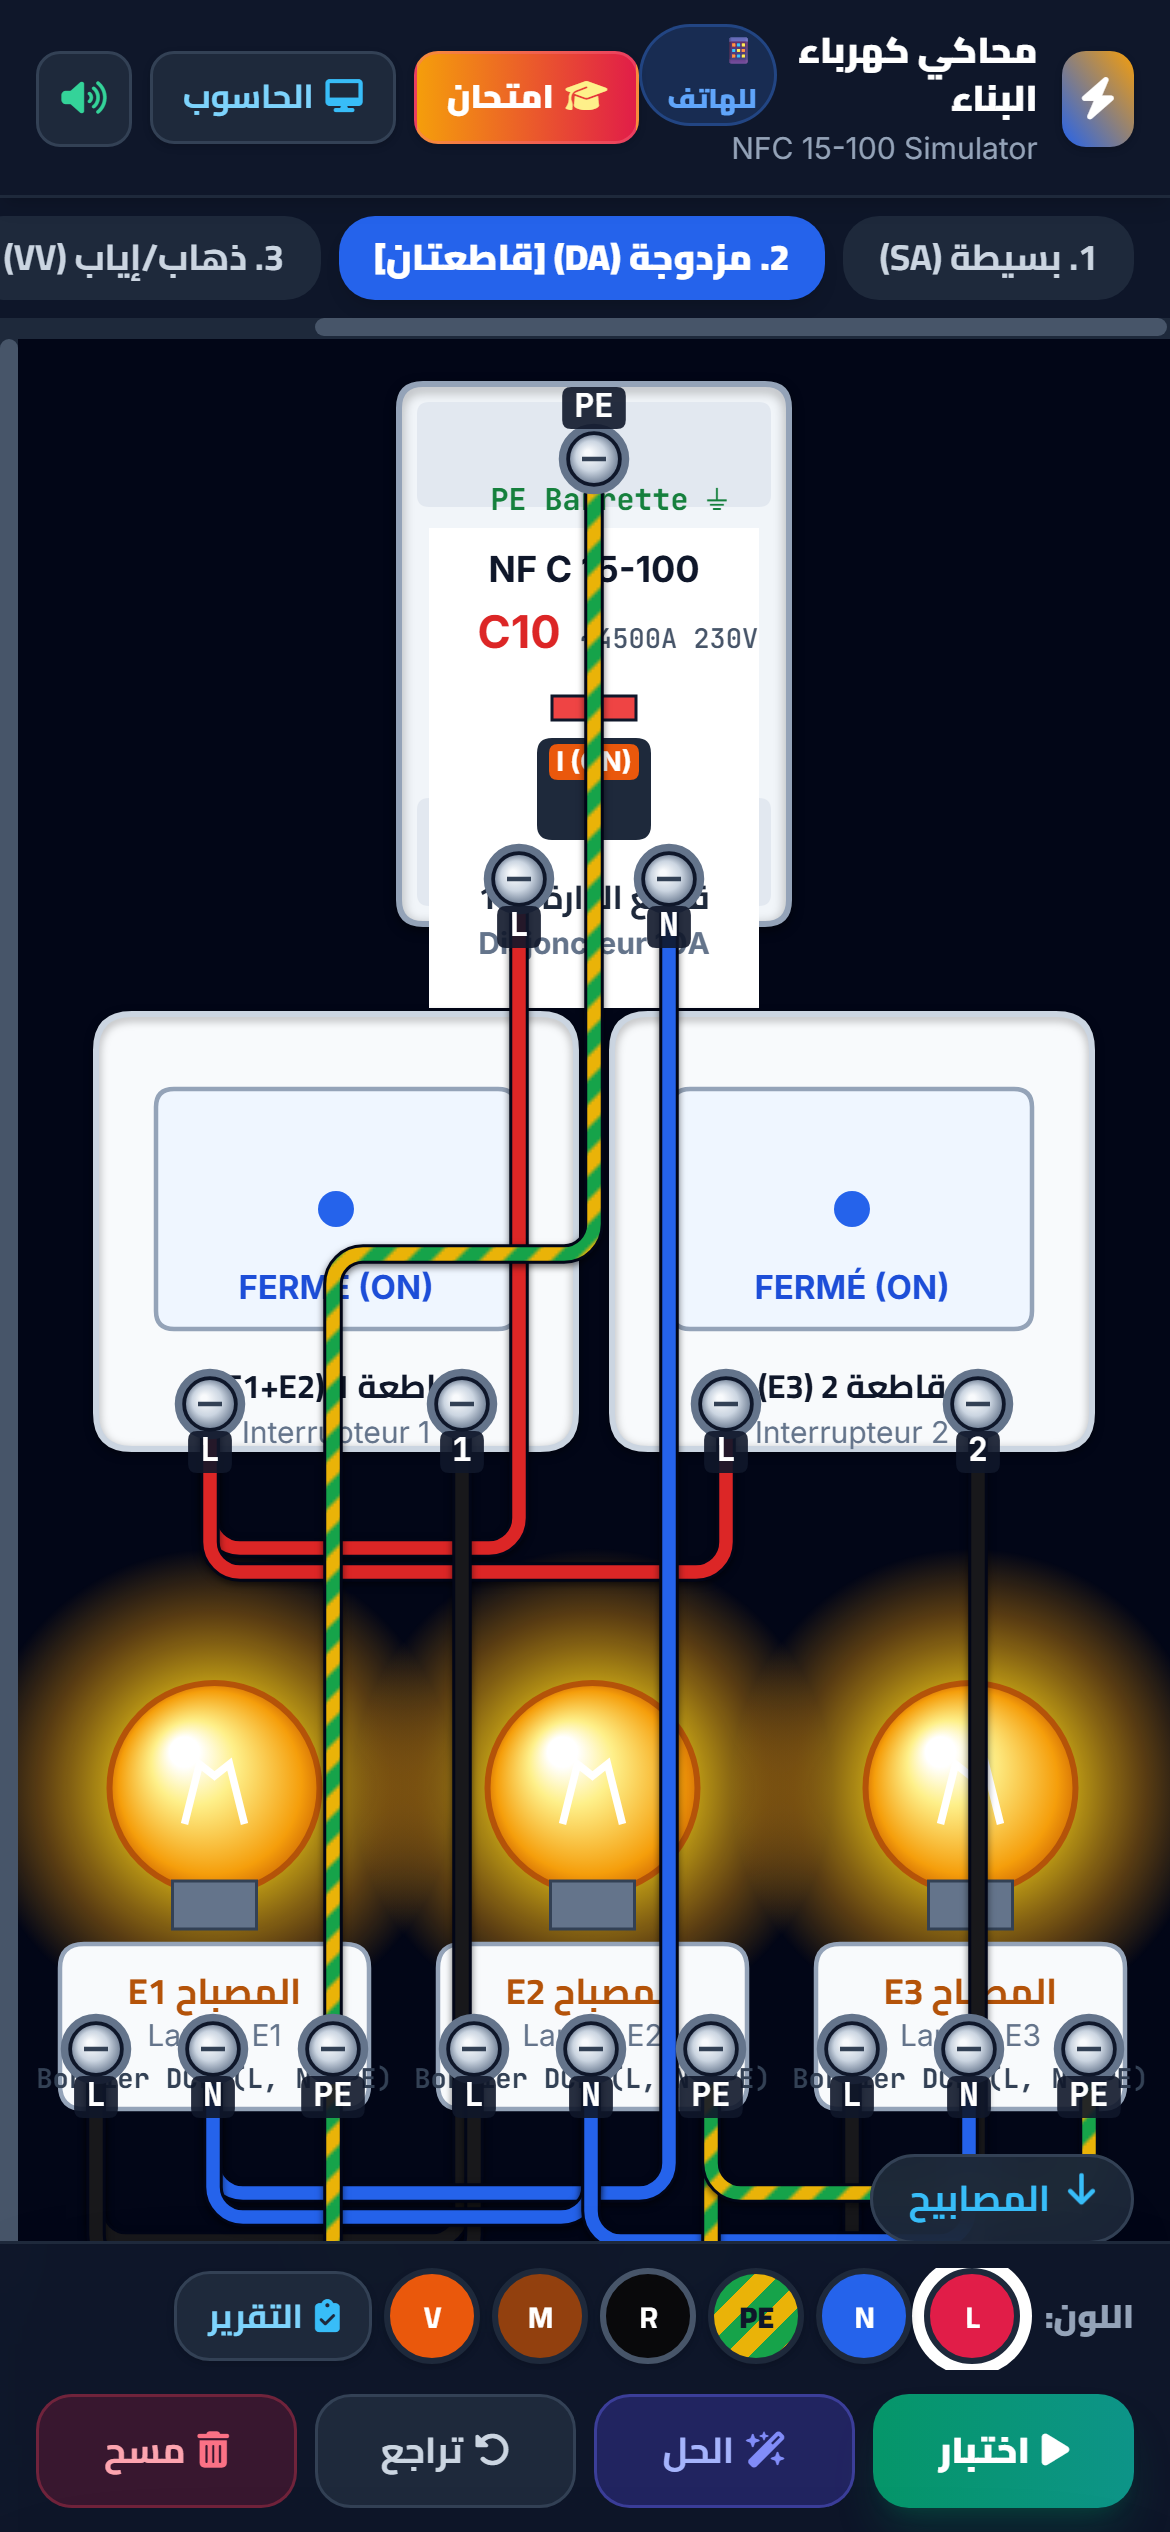
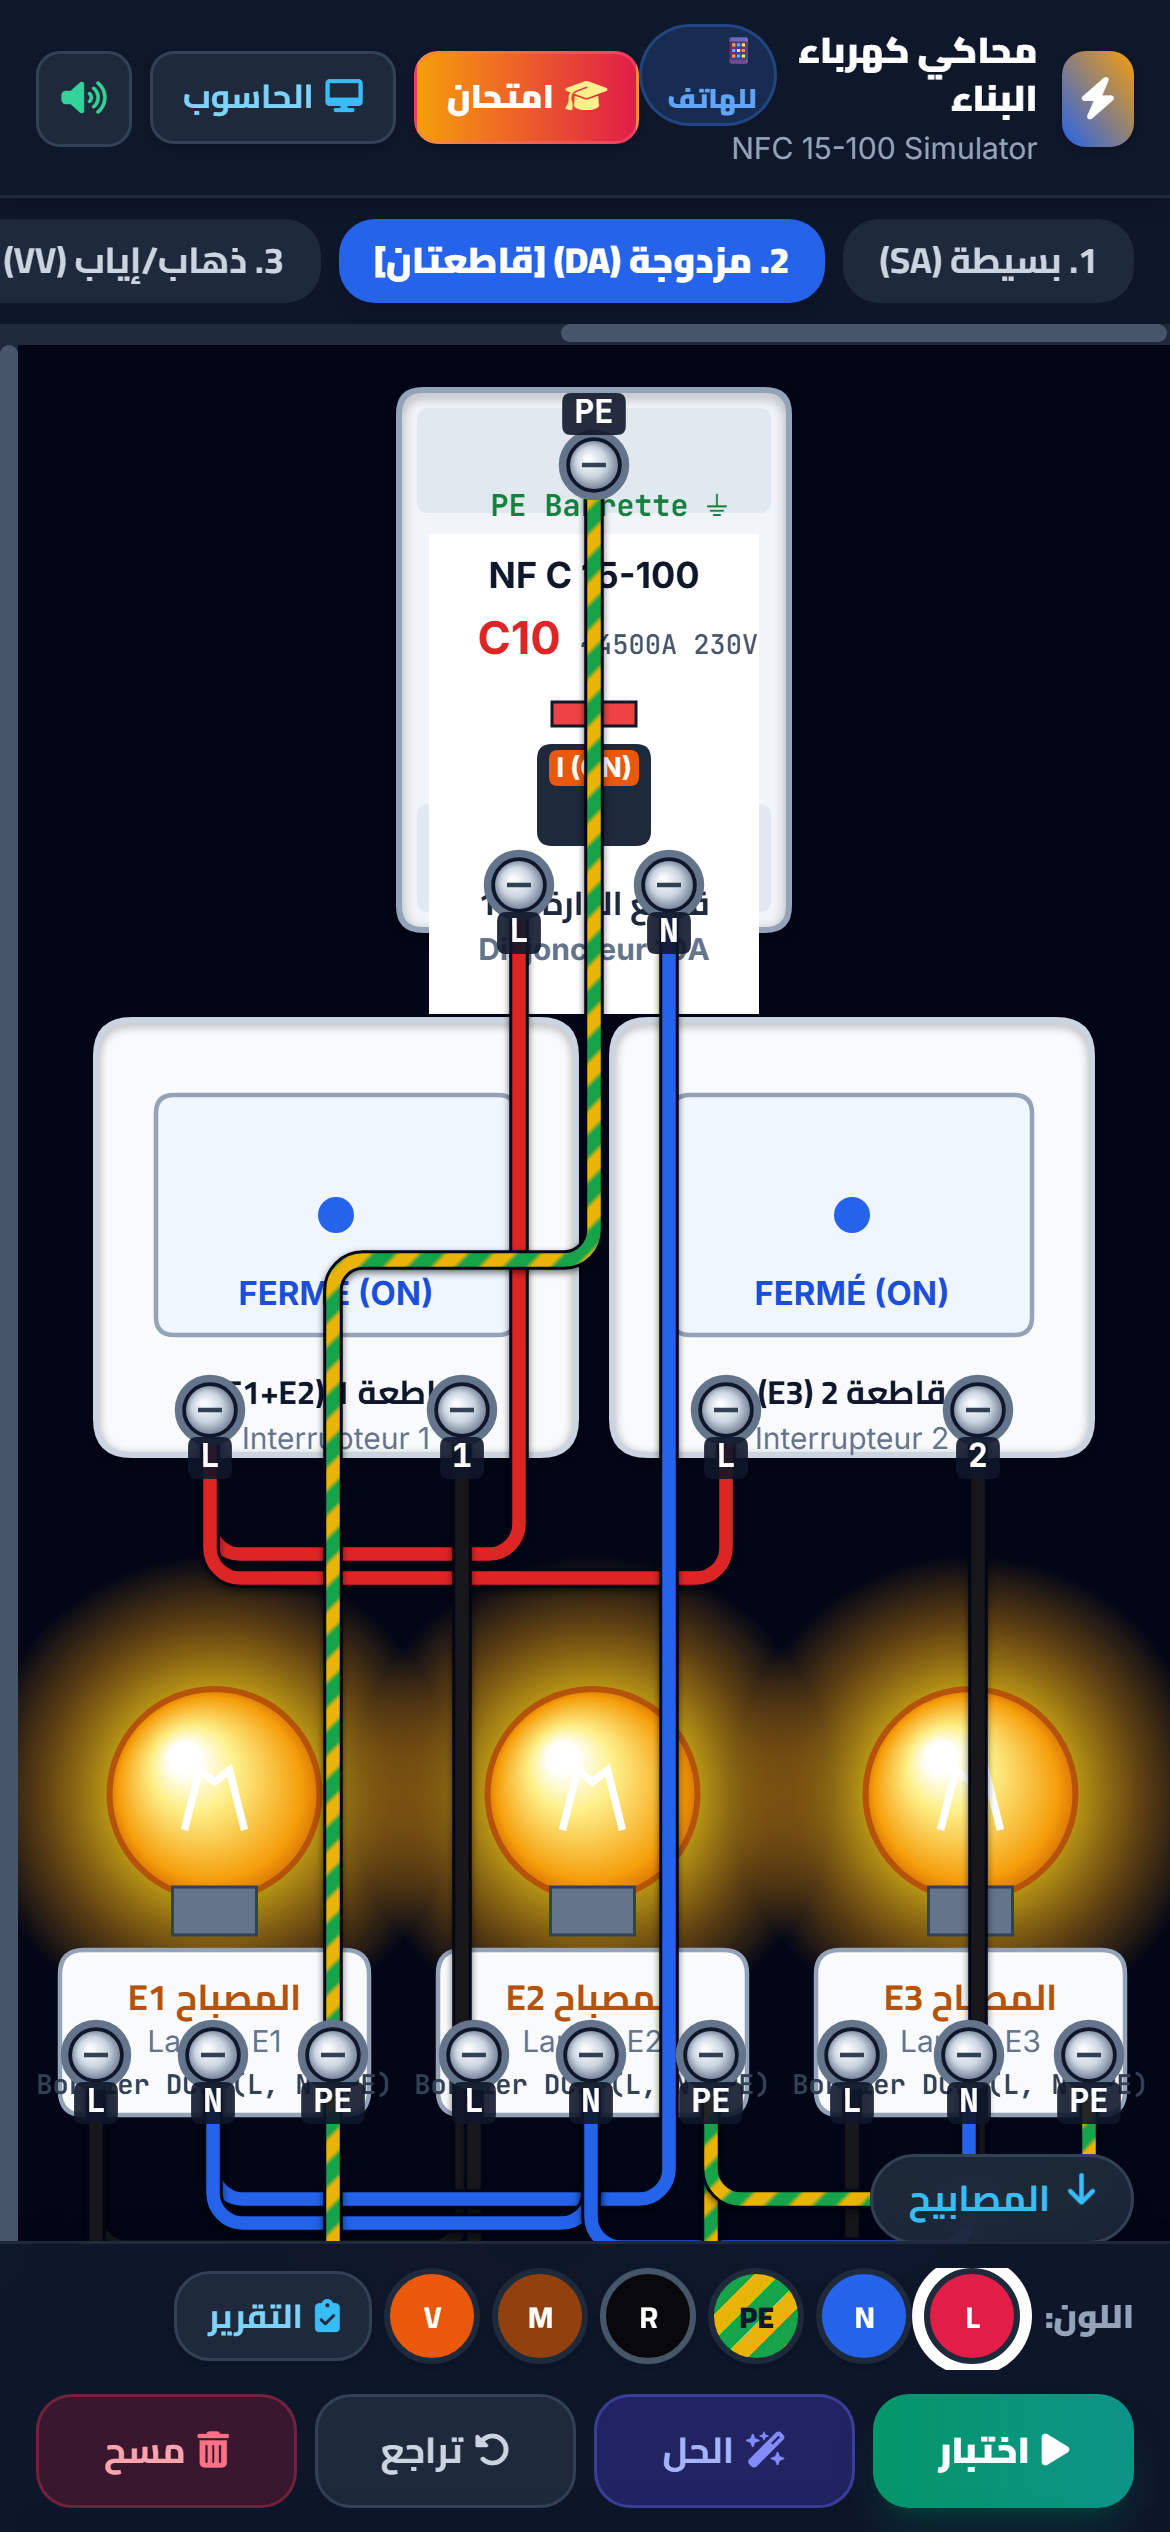
feat: Add prominent 5th Exam Mode nav tab, mode switcher bar, and test screenshots

diff --git a/index.html b/index.html
@@ -144,6 +144,12 @@
         <i class="fa-solid fa-clock"></i>
         <span>4. المرحل النبضي (Télérupteur 4 Fils - 3 أزرار)</span>
       </button>
+
+      <!-- 5. PROMINENT EXAM MODE TAB -->
+      <button id="tabNavExamMode" class="btn-action px-3.5 py-2 rounded-lg text-xs font-black flex items-center gap-2 whitespace-nowrap bg-gradient-to-r from-amber-500 via-rose-500 to-red-600 hover:from-amber-400 hover:to-red-500 text-white shadow-lg shadow-rose-600/40 border border-rose-400/50 transition">
+        <i class="fa-solid fa-graduation-cap text-yellow-200 text-sm animate-pulse"></i>
+        <span>🎯 5. وضع الامتحان المهني (Mode Examen NFC 15-100)</span>
+      </button>
     </div>
   </nav>
 
@@ -267,6 +273,39 @@
 
   <!-- MAIN CONTAINER -->
   <main class="max-w-7xl mx-auto w-full p-4 flex-1 flex flex-col gap-4">
+
+    <!-- MODE SWITCHER TOGGLE BAR: TRAINING vs EXAM -->
+    <div class="bg-slate-900 border border-slate-800 rounded-xl p-2.5 flex items-center justify-between gap-3 flex-wrap shadow-lg">
+      <div class="flex items-center gap-2 flex-wrap">
+        <span class="text-xs font-black text-amber-400 ml-1 flex items-center gap-1.5">
+          <i class="fa-solid fa-sliders"></i>
+          <span>النمط النشط:</span>
+        </span>
+        <div class="flex items-center gap-1.5 bg-slate-950 p-1 rounded-xl border border-slate-800">
+          <button id="btnSwitchToTraining" class="px-3.5 py-1.5 rounded-lg text-xs font-bold bg-blue-600 text-white shadow flex items-center gap-1.5 transition">
+            <i class="fa-solid fa-graduation-cap text-sky-300"></i>
+            <span>🛠 نمط التعلّم والتدريب الحر</span>
+          </button>
+          <button id="btnSwitchToExam" class="px-3.5 py-1.5 rounded-lg text-xs font-bold bg-slate-900 text-slate-300 hover:text-white hover:bg-slate-800 flex items-center gap-1.5 transition border border-transparent hover:border-slate-700">
+            <i class="fa-solid fa-award text-amber-400"></i>
+            <span>🎯 نمط الامتحان والتقييم الصارم (100 نقطة)</span>
+          </button>
+        </div>
+      </div>
+
+      <div class="flex items-center gap-3 text-xs text-slate-400">
+        <button id="btnDirectOpenHistory" class="text-amber-400 hover:text-amber-300 font-bold flex items-center gap-1 text-xs">
+          <i class="fa-solid fa-clock-rotate-left"></i>
+          <span>سجل الامتحانات</span>
+        </button>
+        <span class="text-slate-700">|</span>
+        <span class="text-[11px] text-slate-400 hidden sm:inline">
+          <i class="fa-solid fa-shield-halved text-emerald-400 ml-1"></i>
+          تقييم مستقل وتأخير التصحيح وفق معايير NFC 15-100
+        </span>
+      </div>
+    </div>
+
 
     <!-- Active Mode Description Banner -->
     <div class="bg-slate-900 border border-slate-800 rounded-xl p-3 flex flex-wrap items-center justify-between gap-3">

diff --git a/js/app.js b/js/app.js
@@ -1048,6 +1048,40 @@ class SimulatorApp {
       this.autoSubmitExam();
     };
 
+    // Prominent Nav 5th Tab
+    const tabNavExam = document.getElementById('tabNavExamMode');
+    if (tabNavExam) {
+      tabNavExam.addEventListener('click', () => {
+        this.openExamSelectionModal();
+      });
+    }
+
+    // Prominent Mode Switcher Toggle
+    const btnSwitchExam = document.getElementById('btnSwitchToExam');
+    if (btnSwitchExam) {
+      btnSwitchExam.addEventListener('click', () => {
+        this.openExamSelectionModal();
+      });
+    }
+
+    const btnSwitchTrain = document.getElementById('btnSwitchToTraining');
+    if (btnSwitchTrain) {
+      btnSwitchTrain.addEventListener('click', () => {
+        if (this.examManager && this.examManager.isExamActive && !this.examManager.isExamSubmitted) {
+          this.showToast('أنت حالياً داخل امتحان نشط! سلّم أو ألغِ الامتحان للعودة للتدريب.', 'warning');
+        } else {
+          this.showToast('أنت حالياً في نمط التدريب الحر', 'info');
+        }
+      });
+    }
+
+    const btnDirectHist = document.getElementById('btnDirectOpenHistory');
+    if (btnDirectHist) {
+      btnDirectHist.addEventListener('click', () => {
+        this.openExamHistoryModal();
+      });
+    }
+
     // Header Button: Open Exam Modal
     const btnOpenExam = document.getElementById('btnOpenExamModal');
     if (btnOpenExam) {

diff --git a/mobile.html b/mobile.html
@@ -98,6 +98,12 @@
       <button data-mobile-mode="TL" class="px-3 py-1.5 rounded-xl text-xs font-bold bg-slate-800 text-slate-300 whitespace-nowrap">
         <span>4. مرحل نبضي (TL)</span>
       </button>
+
+      <!-- 5. PROMINENT MOBILE EXAM PILL -->
+      <button id="pillNavMobileExam" class="px-3.5 py-1.5 rounded-xl text-xs font-black bg-gradient-to-r from-amber-500 to-rose-600 text-white shadow-md whitespace-nowrap flex items-center gap-1.5 border border-rose-400/50">
+        <i class="fa-solid fa-graduation-cap text-yellow-200"></i>
+        <span>🎯 5. وضع الامتحان (Examen)</span>
+      </button>
     </div>
   </nav>
 

diff --git a/js/mobile-app.js b/js/mobile-app.js
@@ -662,6 +662,15 @@ class MobileSimulatorApp {
     this.examManager.onTimerTick = (rem, tot) => this.updateMobileExamTimer(rem, tot);
     this.examManager.onTimerExpired = () => this.autoSubmitMobileExam();
 
+    // 5th Pill Navigation in Mobile Nav
+    const pillNavExam = document.getElementById('pillNavMobileExam');
+    if (pillNavExam) {
+      pillNavExam.addEventListener('click', () => {
+        this.triggerHaptic(20);
+        this.openMobileExamSelection();
+      });
+    }
+
     // Top Header Button: Open Exam
     const btnOpenExam = document.getElementById('btnMobileOpenExam');
     if (btnOpenExam) {
